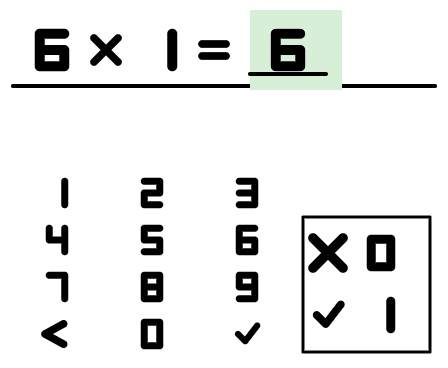
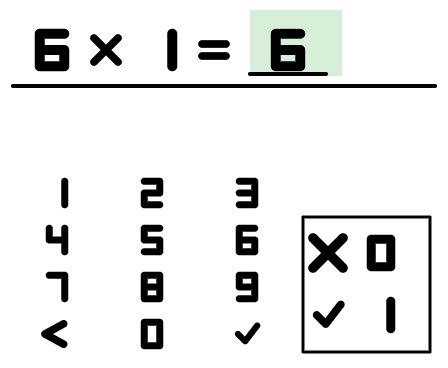
tables: the rule was breaking under the blank, and two sweep tools were testing the wrong rectangle
The owner opened the last commit's own PNGs and caught what the render
looked right at a glance but wasn't: the full-width rule and the answer's
underline shared a row (ANSWER_BOX_H was QROW_H, the full band height), so
every keystroke's own white/tint fill repainted straight through the
rule's y-coordinate wherever the answer box happened to sit that question,
erasing the MIDDLE of the rule without ever redrawing it - a line that ran
in from the left, stopped under the blank, and resumed on the right. Read
as one interrupted line, not "a blank, and a separator below it".

Fixed by shrinking ANSWER_BOX_H to stop right at the underline's own
bottom edge, clear of RULE_Y, so nothing redraw_answer() does can ever
touch the rule's row again - not a tighter erase discipline, just no
overlap in the first place. Also gives the two elements real vertical
air (8px of white between the underline and the rule), which was the
other half of the complaint: they sat close enough to look like one
smudge even where the rule WAS intact. New feature-tables.ts assertions
(rule unbroken at entry, and still unbroken after typing into the answer)
driven red first: forced ANSWER_BOX_H back to QROW_H and watched both fail
with the first gap landing exactly at Q_SLOT_X0_NARROW (250) - the precise
mechanism, not a guess - before restoring the fix and confirming green.

Separately: repro-touch-dropout-tables.ts and sweep-tables-grace.ts still
[…]

Changed region(s): [[0.5312, 0.2092, 0.7812, 0.269]]

diff --git a/devices/rp2350-amoled-1.8/tools/tables-layout.ts b/devices/rp2350-amoled-1.8/tools/tables-layout.ts
@@ -1,0 +1,95 @@
+/**
+ * tables-layout: firmware/apps/tables.c's own layout constants, in ONE
+ * place on the TypeScript side, so every test and sweep tool that has to
+ * hit-test the numpad or read the question band's geometry imports them
+ * from here instead of copying the numbers by hand into each file.
+ *
+ * WHY THIS EXISTS. Before this file, four separate TS files each carried
+ * their own hand-copied `CELL_W = 99, CELL_H = 64, NUMPAD_Y0 = OY + 92`
+ * (feature-tables.ts, preview-tables.ts, repro-touch-dropout-tables.ts,
+ * sweep-tables-grace.ts). When tables.c's layout changed under the owner's
+ * redrawn mockup (2026-08-17), two of those four were updated and two were
+ * not - repro-touch-dropout-tables.ts and sweep-tables-grace.ts kept
+ * hit-testing the OLD numpad rectangle against the NEW one, which does not
+ * fail loudly: numpad_hit()-equivalent code just returns -1 (or the wrong
+ * cell) for coordinates that no longer land where the real firmware puts
+ * them, so the tool keeps printing PASS while silently exercising nothing
+ * real. A silently-hollow test is worse than no test, because it still
+ * looks like coverage. One shared file cannot fully close that gap on its
+ * own - see the honest limit below - but it turns "four copies to keep in
+ * sync by hand" into "one copy, checked once", which is the part that is
+ * actually fixable here.
+ *
+ * THE HONEST LIMIT: this is still NOT read from tables.c itself. There is
+ * no build step that extracts a C #define into TypeScript on this project,
+ * and adding one would mean touching emu_abi.h/emu_shim.c/build.ts, which
+ * three other agents are actively editing in this same tree as this file
+ * is written - not a safe place to add new shared surface today. So this
+ * remains a byte-for-byte mirror of tables.c's own LAYOUT/NUMPAD/QUESTION
+ * BAND/COUNTERS PANEL #defines, kept in sync BY HAND, the same discipline
+ * every one of the four files already relied on individually. What changes
+ * is that there is now exactly one place to update, and CI-shaped drift
+ * (four copies silently diverging) can no longer happen unnoticed.
+ *
+ * If a future change makes emu_device() (the JSON blob every one of these
+ * tools already reads for the app index, never a hardcoded number) carry
+ * layout too, this file is where that would land instead - the four
+ * consumers below would not need to change their own imports.
+ */
+
+// ---- THE PANEL, and the bezel every element is inset from -----------------
+export const PANEL_W = 368, PANEL_H = 448;
+export const LAND_W = PANEL_H, LAND_H = PANEL_W; // 448 x 368
+export const OX = 10, OY = 10;
+export const USABLE_W = LAND_W - 2 * OX; // 428
+export const USABLE_H = LAND_H - 2 * OY; // 348
+
+// ---- THE QUESTION BAND (tables.c's QROW_*) ---------------------------------
+export const QROW_Y0 = OY;
+export const QROW_H = 80;
+export const QROW_CY = OY + Math.floor(QROW_H / 2); // 50
+
+// ---- THE LOUPE ZONE, between the question band and the pad ----------------
+export const LOUPE_ZONE_H = 80; // = LOUPE_BOX_H exactly, tables.c's THE LOUPE
+
+// ---- THE NUMPAD (tables.c's THE NUMPAD) ------------------------------------
+export const NUMPAD_COLS = 3, NUMPAD_ROWS = 4;
+export const CELL_W = 95, CELL_H = 47;
+export const NUMPAD_W = CELL_W * NUMPAD_COLS; // 285
+export const NUMPAD_H = CELL_H * NUMPAD_ROWS; // 188
+export const NUMPAD_X0 = OX;
+export const NUMPAD_Y0 = OY + QROW_H + LOUPE_ZONE_H; // 170
+
+export const CELL_BACK = 9, CELL_ZERO = 10, CELL_CHECK = 11;
+export const cellCx = (c: number) => NUMPAD_X0 + (c % NUMPAD_COLS) * CELL_W + CELL_W / 2;
+export const cellCy = (c: number) => NUMPAD_Y0 + Math.floor(c / NUMPAD_COLS) * CELL_H + CELL_H / 2;
+export const digitCell = (d: number) => (d === 0 ? CELL_ZERO : d - 1);
+export const cellValueName = (c: number) =>
+  c === CELL_BACK ? "back" : c === CELL_CHECK ? "check" : c === CELL_ZERO ? "0" : String(c + 1);
+
+// ---- THE QUESTION BAND'S OWN LAYOUT (tables.c's Q_*) -----------------------
+// The blank's own x0 depends on whether the CURRENT question's factor is
+// one digit or two (tables.c's question_slot_x0(), the fix for the
+// "6 x    1 =" spacing hole) - a test that does not know the first
+// question's factor in advance has to check both candidate positions.
+const Q_FACTOR_X0 = 142, Q_GAP = 20, QDIGIT_W = 36, QICON_BOX = 32, Q2W = 76;
+export const Q_SLOT_X0_NARROW = Q_FACTOR_X0 + QDIGIT_W + Q_GAP + QICON_BOX + Q_GAP; // 250, 1-digit factor
+export const Q_SLOT_X0_WIDE = Q_FACTOR_X0 + Q2W + Q_GAP + QICON_BOX + Q_GAP;        // 290, 2-digit factor ("10")
+export const CURSOR_X_CANDIDATES = [Q_SLOT_X0_NARROW + 4, Q_SLOT_X0_WIDE + 4]; // tables.c's cursor_x_for_len(0)
+
+// ---- THE COUNTERS PANEL (tables.c's THE COUNTERS PANEL / the box) --------
+const INFO_X0 = NUMPAD_X0 + NUMPAD_W;       // 295
+const INFO_W = USABLE_W - NUMPAD_W;         // 143
+export const BOX_X0 = INFO_X0 + 8;                       // 303
+export const BOX_Y0 = NUMPAD_Y0 + CELL_H;                // 217 - skip the pad's own top row
+export const BOX_H = NUMPAD_H - CELL_H - 6;              // 135 - clear of the bezel, see tables.c's own comment
+const BOX_INSET = 5;
+export const COUNTER_ROW_X0 = BOX_X0 + BOX_INSET;        // 308
+export const COUNTER_ROW_W = INFO_W - 16 - 2 * BOX_INSET; // 117
+export const COUNTERS_Y0 = BOX_Y0 + BOX_INSET;            // 222
+export const COUNTER_ROW_H = Math.floor((BOX_H - 2 * BOX_INSET) / 2); // 62 (2 rows)
+
+// ---- landscape/panel conversion, the same isometry gfx.h uses -------------
+export function landToPanel(lx: number, ly: number): [number, number] {
+  return [PANEL_W - 1 - Math.round(ly), Math.round(lx)];
+}

diff --git a/devices/rp2350-amoled-1.8/emulator/wasm/tests/repro-touch-dropout-tables.ts b/devices/rp2350-amoled-1.8/emulator/wasm/tests/repro-touch-dropout-tables.ts
@@ -26,22 +26,23 @@ import { join } from "node:path";
 import { TouchSim, type TouchReport } from "../../src/touchsim";
 import { TOUCHSIM_DEFAULTS } from "../../src/constants";
 import { seededRng, seedFromName } from "../../../tools/gate/touch";
+import {
+  PANEL_W, PANEL_H,
+  NUMPAD_X0, NUMPAD_Y0, NUMPAD_W, NUMPAD_H, NUMPAD_COLS, NUMPAD_ROWS, CELL_W, CELL_H,
+  CELL_ZERO, cellCx, cellCy, cellValueName, landToPanel,
+} from "../../../tools/tables-layout";
 
 const WASM_PATH = join(import.meta.dir, "..", "dist", "emu.wasm");
-const PANEL_W = 368, PANEL_H = 448;
-const LAND_W = PANEL_H, LAND_H = PANEL_W;
 
-// tables.c's own layout, lifted rather than re-derived (this directory's
-// standing convention).
-const OX = 10, OY = 10;
-const NUMPAD_X0 = OX, NUMPAD_Y0 = OY + 92;
-const CELL_W = 99, CELL_H = 64, NUMPAD_COLS = 3, NUMPAD_ROWS = 4;
-const NUMPAD_W = CELL_W * NUMPAD_COLS, NUMPAD_H = CELL_H * NUMPAD_ROWS;
-const CELL_BACK = 9, CELL_ZERO = 10, CELL_CHECK = 11;
-const cellCx = (c: number) => NUMPAD_X0 + (c % NUMPAD_COLS) * CELL_W + CELL_W / 2;
-const cellCy = (c: number) => NUMPAD_Y0 + Math.floor(c / NUMPAD_COLS) * CELL_H + CELL_H / 2;
-const digitCell = (d: number) => (d === 0 ? CELL_ZERO : d - 1);
-const cellValueName = (c: number) => (c === CELL_BACK ? "back" : c === CELL_CHECK ? "check" : c === CELL_ZERO ? "0" : String(c + 1));
+// tables.c's own layout, read from tools/tables-layout.ts (this directory's
+// standing convention: lift the app's own constants rather than re-derive
+// them) - see that file's own header for why this is now ONE shared copy
+// rather than one hand-copied into this file, feature-tables.ts,
+// preview-tables.ts and sweep-tables-grace.ts separately. This file's own
+// stale copy (CELL_W=99, CELL_H=64, NUMPAD_Y0=OY+92 - the pre-2026-08-17
+// layout) went unnoticed for a full redesign cycle: it did not fail, it
+// just hit-tested the wrong rectangle and stopped proving anything -
+// exactly the failure mode a shared import is meant to close off.
 
 const RELEASE_GRACE_MS = 300;
 
@@ -89,10 +90,6 @@ async function freshDevice() {
     feed(r: TouchReport, nowMs: number) { exp.emu_touch(r.fingers === 1 ? 1 : 0, r.x, r.y); exp.emu_tick(nowMs); },
     drainLog(): string[] { const o = fwLog.slice(); fwLog.length = 0; return o; },
   };
-}
-
-function landToPanel(lx: number, ly: number): [number, number] {
-  return [PANEL_W - 1 - Math.round(ly), Math.round(lx)];
 }
 
 const dropoutHeavy = { ...TOUCHSIM_DEFAULTS, dropoutsEnabled: true, dropoutsPerSec: 34, straysEnabled: false };

diff --git a/devices/rp2350-amoled-1.8/emulator/wasm/tests/feature-tables.ts b/devices/rp2350-amoled-1.8/emulator/wasm/tests/feature-tables.ts
@@ -42,6 +42,7 @@ const Q_FACTOR_X0 = 142, Q_GAP = 20, QDIGIT_W = 36, QICON_BOX = 32, Q2W = 76;
 const Q_SLOT_X0_NARROW = Q_FACTOR_X0 + QDIGIT_W + Q_GAP + QICON_BOX + Q_GAP; // 250, 1-digit factor
 const Q_SLOT_X0_WIDE = Q_FACTOR_X0 + Q2W + Q_GAP + QICON_BOX + Q_GAP;        // 290, 2-digit factor ("10")
 const CURSOR_X_CANDIDATES = [Q_SLOT_X0_NARROW + 4, Q_SLOT_X0_WIDE + 4];      // tables.c's cursor_x_for_len(0)
+const RULE_Y = OY + QROW_H - 4; // 86, tables.c's RULE_Y
 
 const NUMPAD_W = CELL_W * NUMPAD_COLS;
 const INFO_X0 = NUMPAD_X0 + NUMPAD_W;   // 295
@@ -308,6 +309,37 @@ async function main() {
     }
     check("the answer blank's cursor blinks while entering (both a lit and an unlit sample seen)",
       sawDark && sawLight, `sawDark=${sawDark} sawLight=${sawLight}`);
+  }
+
+  // ---- the full-width rule under the question band stays UNBROKEN, even
+  // after a keystroke redraws the answer box on top of the same row -------
+  //
+  // The rule and the answer box used to share a row (ANSWER_BOX_H was
+  // QROW_H, the full band height): every keystroke's own white/tint fill
+  // repainted straight through the rule's y-coordinate wherever the answer
+  // box happened to sit, erasing the MIDDLE of the rule without ever
+  // redrawing it - a line that ran in from the left, stopped under the
+  // blank, and resumed on the right. Found by looking at the rendered PNG,
+  // not by inspection: it reads as one interrupted line, not "a blank with
+  // a separator below it". ANSWER_BOX_H now stops at the underline's own
+  // bottom edge, clear of RULE_Y, so nothing redraw_answer() does can ever
+  // touch the rule's row again - checked here both at rest and after an
+  // actual keystroke, which is exactly the sequence that broke it before.
+  {
+    const dev = await loadDevice();
+    await enterTables(dev, APP_TABLES);
+    function ruleGapAt(fb: Uint8Array): number {
+      for (let lx = 20; lx < LAND_W - 20; lx++) {
+        if (grayAt(fb, lx, RULE_Y) >= 180) return lx;
+      }
+      return -1;
+    }
+    const gapBefore = ruleGapAt(dev.fb());
+    check("the full-width rule is unbroken right after entry", gapBefore === -1, `first gap at x=${gapBefore}`);
+    typeDigits(dev, [4, 2]);
+    const gapAfter = ruleGapAt(dev.fb());
+    check("the rule stays unbroken after typing into the answer (the answer box redraw does not erase it)",
+      gapAfter === -1, `first gap at x=${gapAfter}`);
   }
 
   // ---- the wrong counter only counts a FINAL give-up, not every question

diff --git a/devices/rp2350-amoled-1.8/tools/sweep-tables-grace.ts b/devices/rp2350-amoled-1.8/tools/sweep-tables-grace.ts
@@ -63,22 +63,20 @@ import { join } from "node:path";
 import { TouchSim } from "../emulator/src/touchsim";
 import { TOUCHSIM_HARDWARE_MEASURED } from "../emulator/src/constants";
 import { seededRng, seedFromName } from "./gate/touch";
+import { PANEL_W, PANEL_H, CELL_ZERO, cellCx, cellCy, landToPanel } from "./tables-layout";
 
 const ROOT = join(import.meta.dir, "..");
 const BUILD_TS = join(ROOT, "emulator", "wasm", "build.ts");
 const WASM_PATH = join(ROOT, "emulator", "wasm", "dist", "emu.wasm");
 
-const PANEL_W = 368, PANEL_H = 448;
-
-// tables.c's own layout constants, lifted rather than re-derived - the
+// tables.c's own layout constants, read from ./tables-layout.ts - the
 // convention every test/tool under this directory uses against its app
-// (see feature-tables.ts, repro-touch-dropout-tables.ts).
-const OX = 10, OY = 10;
-const NUMPAD_X0 = OX, NUMPAD_Y0 = OY + 92;
-const CELL_W = 99, CELL_H = 64, NUMPAD_COLS = 3;
-const CELL_ZERO = 10;
-const cellCx = (c: number) => NUMPAD_X0 + (c % NUMPAD_COLS) * CELL_W + CELL_W / 2;
-const cellCy = (c: number) => NUMPAD_Y0 + Math.floor(c / NUMPAD_COLS) * CELL_H + CELL_H / 2;
+// (see feature-tables.ts, repro-touch-dropout-tables.ts, preview-tables.ts)
+// - rather than the hand-copied `CELL_W=99, CELL_H=64, NUMPAD_Y0=OY+92`
+// this file carried until 2026-08-17, which was still the layout FROM
+// BEFORE that day's redesign: silently hit-testing the wrong rectangle
+// rather than failing, the exact hollow-test failure mode tables-layout.ts's
+// own header argues against.
 
 // COMMIT_CONFIRM_MS is held fixed at its own measured value throughout this
 // sweep - this file is about RELEASE_GRACE_MS only, one constant at a time,
@@ -92,10 +90,6 @@ function argVal(name: string, dflt: string): string {
 }
 const CANDIDATES = argVal("values", "80,120,160,200,250,300").split(",").map(Number);
 const TRIALS = Number(argVal("trials", "200"));
-
-function landToPanel(lx: number, ly: number): [number, number] {
-  return [PANEL_W - 1 - Math.round(ly), Math.round(lx)];
-}
 
 function buildWith(graceMs: number): void {
   const env = { ...process.env, EMU_EXTRA_DEFINES: `-DRELEASE_GRACE_MS=${graceMs}` };

diff --git a/devices/rp2350-amoled-1.8/firmware/apps/tables.c b/devices/rp2350-amoled-1.8/firmware/apps/tables.c
@@ -343,7 +343,7 @@ static uint16_t tint_wrong(void) { return rgb565(250, 232, 196); } // pale amber
 // fact_factor(), both declared later in the file than this constants block.
 
 #define Q_SLOT_W    Q2W                                // 76 - up to two digits, always reserved
-#define Q_UNDERLINE_Y (QROW_CY + QDIGIT_H / 2 + 2)    // 66 - just below the digit baseline
+#define Q_UNDERLINE_Y (QROW_CY + QDIGIT_H / 2 + 2)    // 74 - just below the digit baseline
 #define Q_UNDERLINE_R 2.0f
 
 // The answer box: what redraw_answer() erases and redraws wholesale on
@@ -354,17 +354,36 @@ static uint16_t tint_wrong(void) { return rgb565(250, 232, 196); } // pale amber
 // inside this same box rather than needing its own separate erase rect.
 // Its X0 moves with question_slot_x0() (the factor's width shifts it), its
 // WIDTH does not.
+//
+// ANSWER_BOX_H stops right at the underline's own bottom edge (76) rather
+// than filling the rest of QROW_H down to RULE_Y: the first version of
+// this box was QROW_H tall, which meant every keystroke's own white/tint
+// fill repainted straight through the rule's row and erased the MIDDLE of
+// it (wherever the answer box happened to sit that question) without ever
+// redrawing it - a full-width line that ran in from the left, stopped
+// under the blank, and resumed on the right, which read as one broken
+// line rather than "a blank, and a separator below it". Found by looking
+// at the rendered PNG, not by inspection. Keeping the box's own bottom
+// edge clear of RULE_Y (see that constant's own comment) is what makes
+// the rule untouchable by anything redraw_answer() does, ever - not a
+// tighter erase-and-redraw discipline, just never overlapping in the
+// first place.
 #define Q_CURSOR_CLEARANCE 16
 #define ANSWER_BOX_W  (Q_SLOT_W + Q_CURSOR_CLEARANCE) // 92
 #define ANSWER_BOX_Y0 QROW_Y0
-#define ANSWER_BOX_H  QROW_H
+#define ANSWER_BOX_H  ((int)(Q_UNDERLINE_Y + Q_UNDERLINE_R) - QROW_Y0) // 66 (ends at y=76)
 
 // A full-width rule directly under the question band, separating it from
 // everything below (the owner's exact mockup adds this) - drawn ONCE, in
 // tables_enter(), because it never changes: nothing else in this band ever
-// draws this far down (QDIGIT_H's own digits end well above it, see
-// Q_UNDERLINE_Y), so there is nothing to erase around it, ever.
-#define RULE_Y (OY + QROW_H - 4) // 70, still inside the question band's own row
+// draws this far down. Given REAL clearance from the answer's own
+// underline: RULE_Y - RULE_R sits 8px below ANSWER_BOX_H's own bottom edge
+// (76), empty white between them, so the two read as two separate
+// objects, not one smudge - the owner's own complaint about the first
+// version of this line, which sat close enough under the underline to
+// look like a broken continuation of it rather than its own element.
+#define RULE_Y (OY + QROW_H - 4) // 86 (ink 84-88), 2px clear of the band's own bottom edge (90);
+                                  // 8px of empty white above it, back to ANSWER_BOX_H's bottom edge (76)
 #define RULE_R 2.0f
 
 /* ---- THE COUNTERS PANEL ---------------------------------------------------
